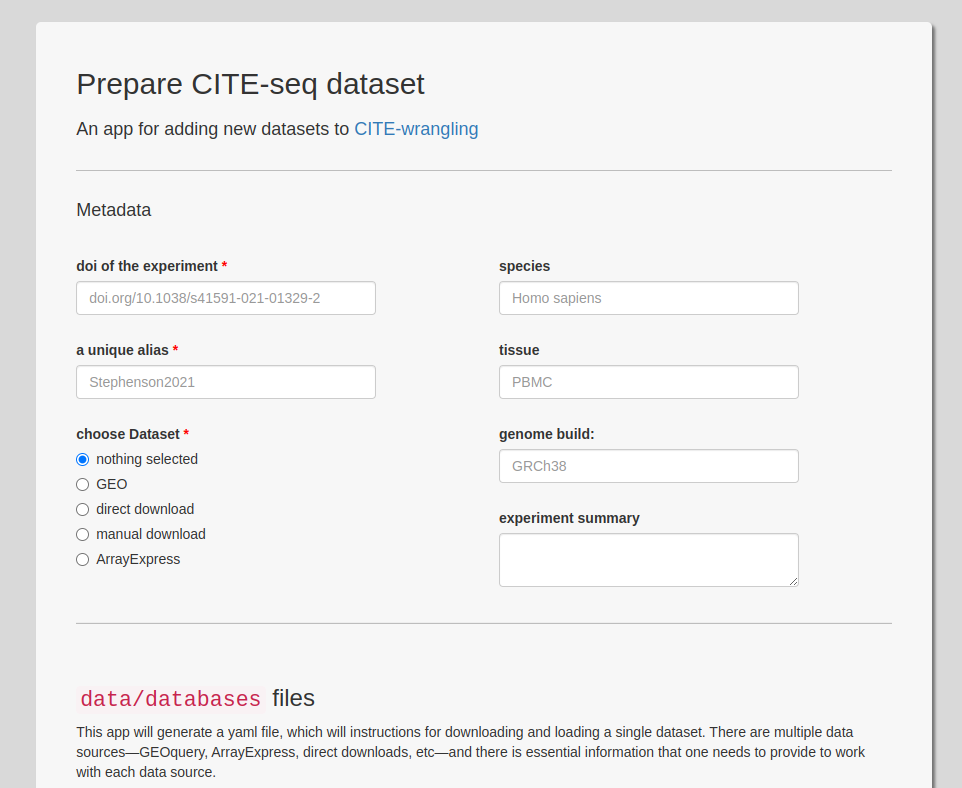
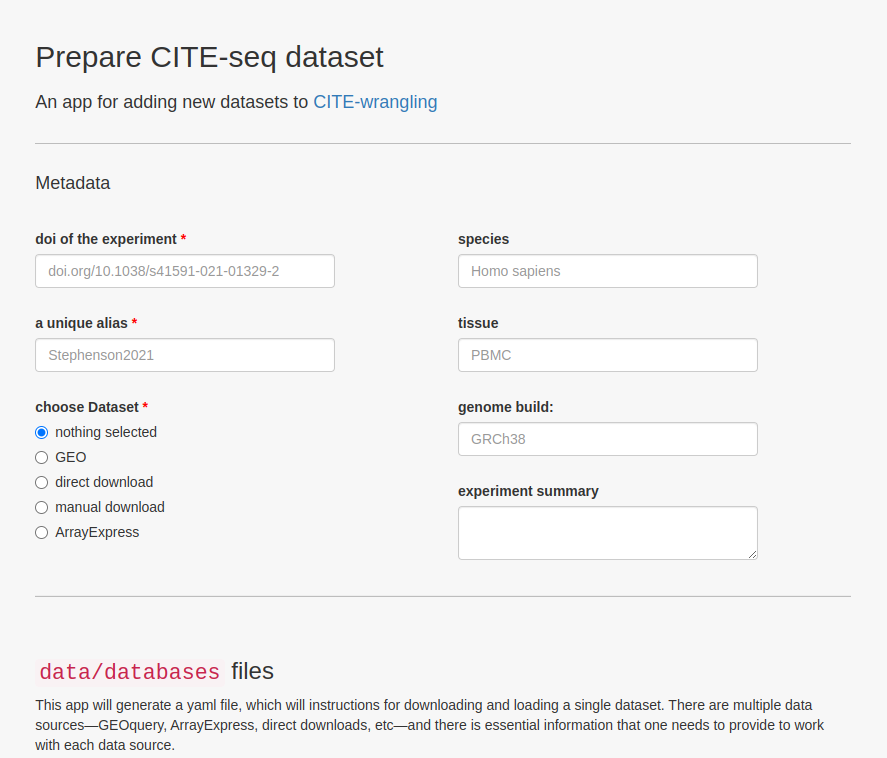
Make pretty

Changed region(s): [[0.0, 0.0, 1.0, 1.0], [0.5175, 0.3034, 0.8219, 0.6069], [0.5175, 0.6372, 0.6697, 0.6979]]

diff --git a/data/README.md b/data/README.md
@@ -2,9 +2,9 @@
 
 ## Using [`CITE-formatting`](https://github.com/bernibra/CITE-formatting) (recommended)
 
-We created a [little app](https://github.com/bernibra/CITE-formatting) to help you adding a new dataset to the CITE-wranling pipeline. Clone the repository and follow the instructions to set up the app.
+We created a [little app](https://github.com/bernibra/CITE-formatting) to help you add new datasets to the CITE-wranling pipeline. Clone the repository and follow the instructions to set up the app.
 
-![](img/CITE-formatting.png)
+![](img/CITE-formatting.png | width=200)
 
 Fill in the form as accurately as possible. Answering the questions regarding how to read the data might require you to manually download some of the files. Unfortunately, there is no way around it. The CITE-wrangling will do its best to read the data as is; however, the more information, the more likely it is for it to run smoothly.
 
